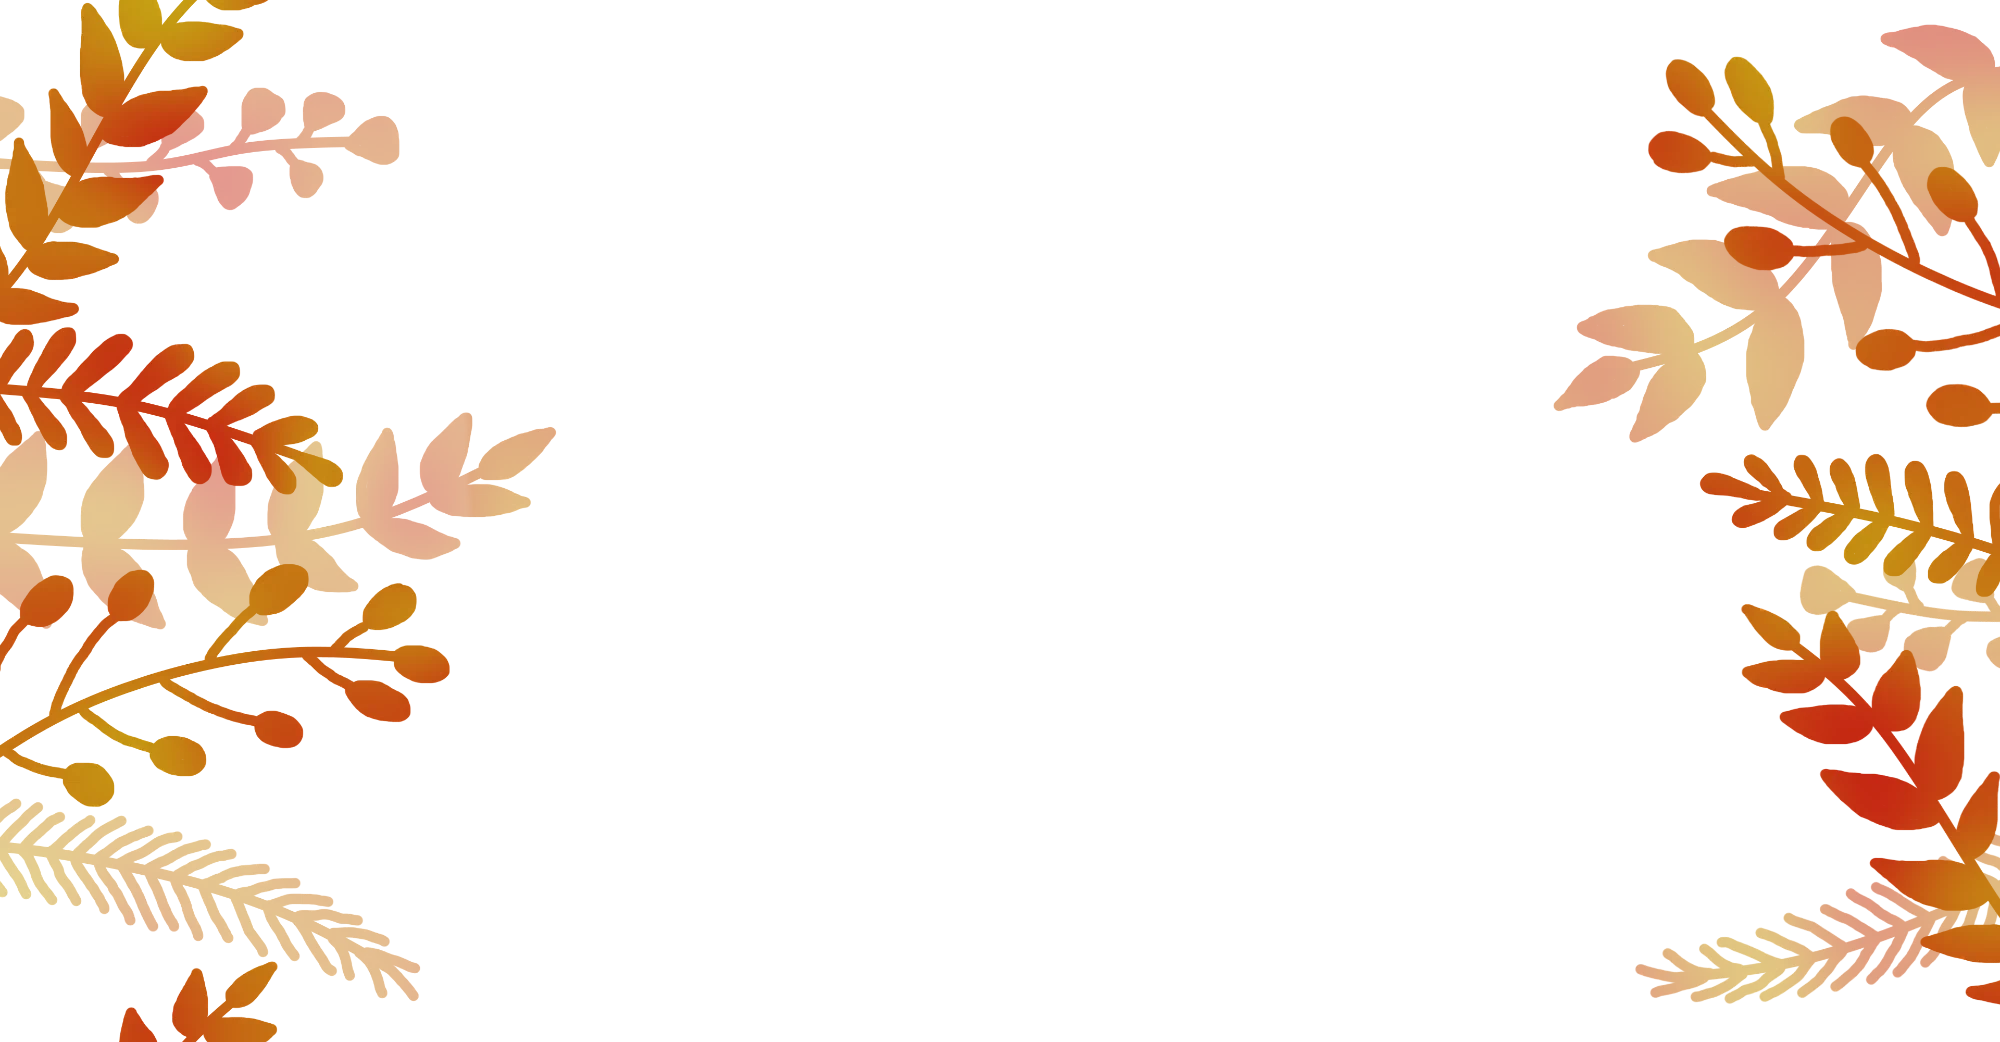
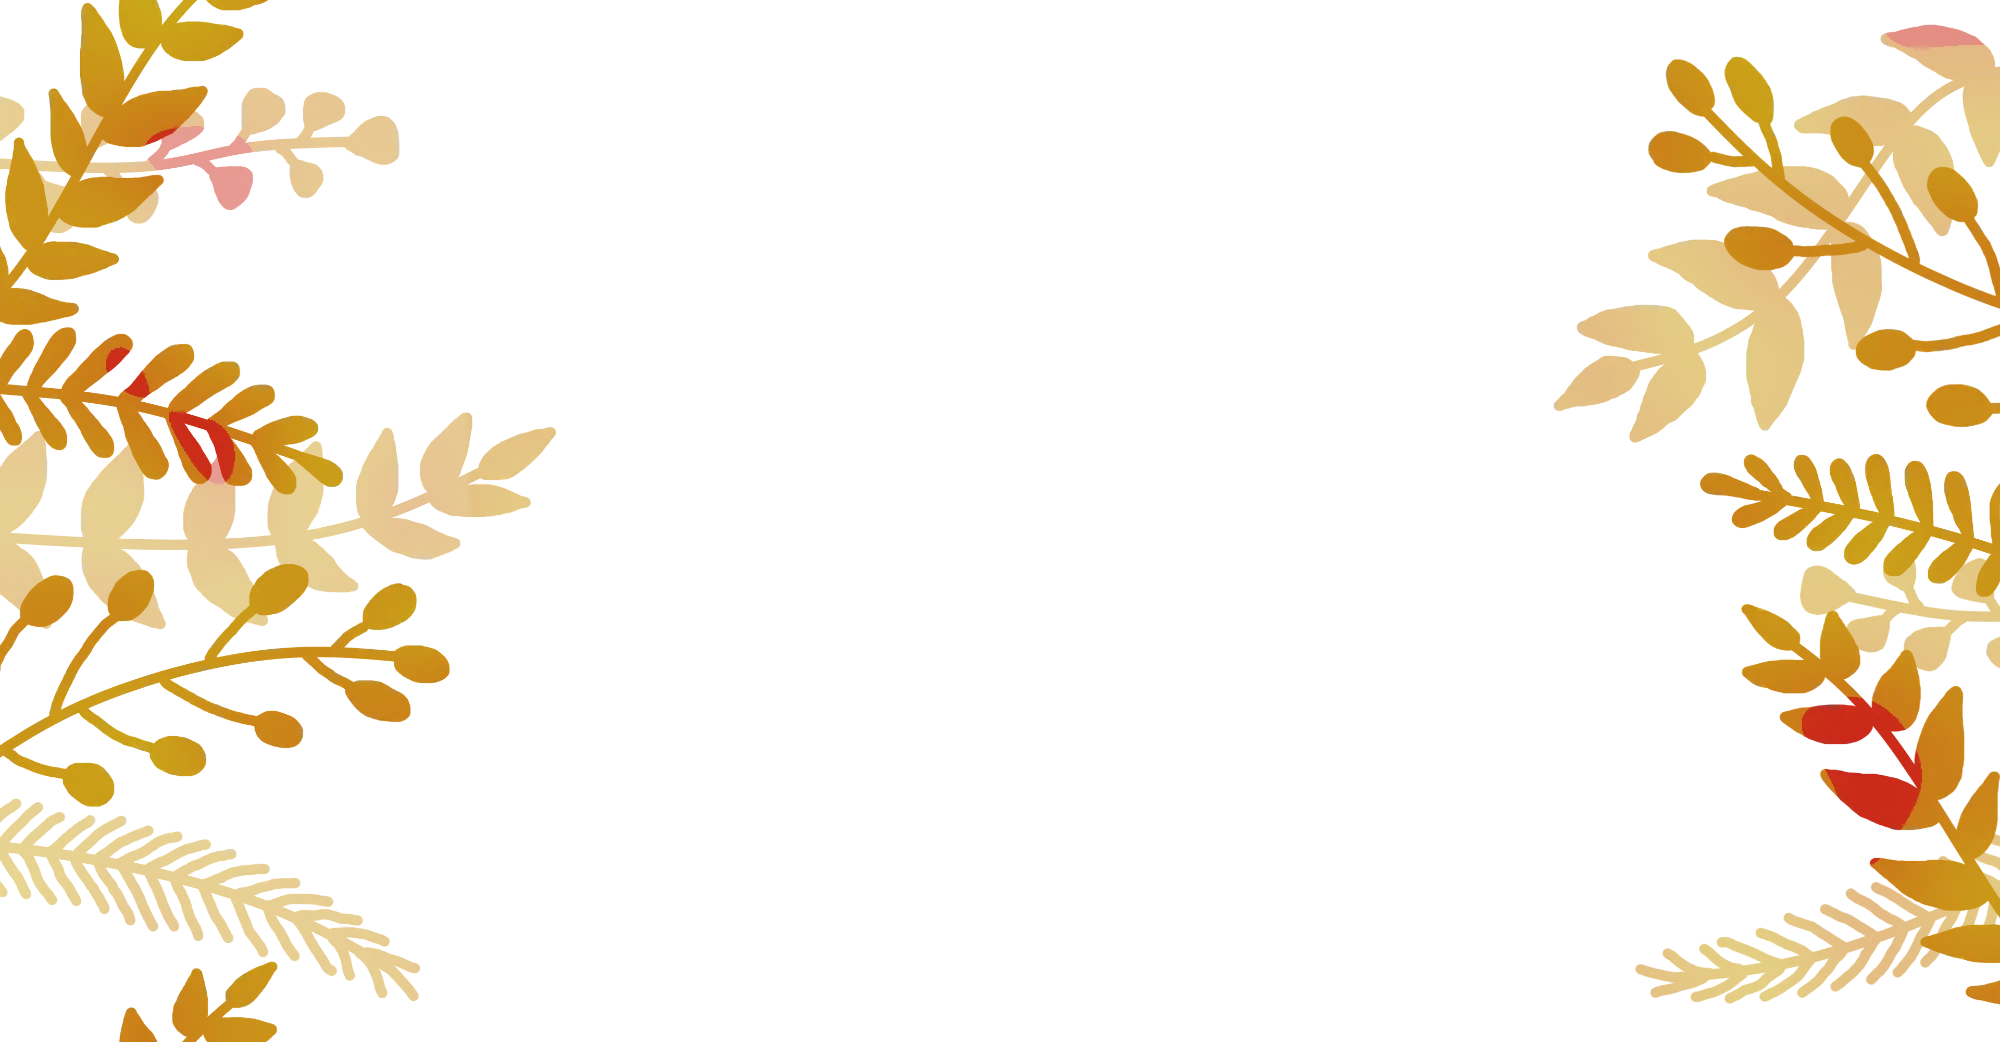
Autumn woodland side art: mostly gold with a few red patches
Easier to see at the top of the page than the mixed version.

Claude-Session: https://claude.ai/code/session_01AKYuNggPa5w9iRuLumobCr

diff --git a/profile.html b/profile.html
@@ -18,8 +18,8 @@
   <meta name="twitter:card" content="summary_large_image" />
   <link rel="preconnect" href="https://fonts.googleapis.com" />
   <link href="https://fonts.googleapis.com/css2?family=Fraunces:wght@500;600&family=Work+Sans:wght@400;500;600&display=swap" rel="stylesheet" />
-  <link rel="stylesheet" href="style.css?v=110" />
-  <script src="a11y.js?v=110"></script>
+  <link rel="stylesheet" href="style.css?v=111" />
+  <script src="a11y.js?v=111"></script>
 </head>
 <body>
   <header class="site-header">
@@ -66,13 +66,13 @@
     <section id="profile-posts" class="feed"><p class="feed-empty is-loading">Loading…</p></section>
   </main>
   <script src="https://cdn.jsdelivr.net/npm/@supabase/supabase-js@2"></script>
-  <script src="supabase-client.js?v=110"></script>
-  <script src="profile-fields.js?v=110"></script>
-  <script src="nav-menu.js?v=110"></script>
-  <script src="ui.js?v=110"></script>
-  <script src="edit-forms.js?v=110"></script>
-  <script src="biome.js?v=110"></script>
-  <script src="report.js?v=110"></script>
-  <script src="profile.js?v=110"></script>
+  <script src="supabase-client.js?v=111"></script>
+  <script src="profile-fields.js?v=111"></script>
+  <script src="nav-menu.js?v=111"></script>
+  <script src="ui.js?v=111"></script>
+  <script src="edit-forms.js?v=111"></script>
+  <script src="biome.js?v=111"></script>
+  <script src="report.js?v=111"></script>
+  <script src="profile.js?v=111"></script>
 </body>
 </html>

diff --git a/reviews.html b/reviews.html
@@ -18,8 +18,8 @@
   <meta name="twitter:card" content="summary_large_image" />
   <link rel="preconnect" href="https://fonts.googleapis.com" />
   <link href="https://fonts.googleapis.com/css2?family=Fraunces:wght@500;600&family=Work+Sans:wght@400;500;600&display=swap" rel="stylesheet" />
-  <link rel="stylesheet" href="style.css?v=110" />
-  <script src="a11y.js?v=110"></script>
+  <link rel="stylesheet" href="style.css?v=111" />
+  <script src="a11y.js?v=111"></script>
 </head>
 <body data-biome="forest">
   <header class="site-header">
@@ -128,12 +128,12 @@
     </section>
   </main>
   <script src="https://cdn.jsdelivr.net/npm/@supabase/supabase-js@2"></script>
-  <script src="supabase-client.js?v=110"></script>
-  <script src="profile-fields.js?v=110"></script>
-  <script src="nav-menu.js?v=110"></script>
-  <script src="ui.js?v=110"></script>
-  <script src="edit-forms.js?v=110"></script>
-  <script src="report.js?v=110"></script>
-  <script src="reviews.js?v=110"></script>
+  <script src="supabase-client.js?v=111"></script>
+  <script src="profile-fields.js?v=111"></script>
+  <script src="nav-menu.js?v=111"></script>
+  <script src="ui.js?v=111"></script>
+  <script src="edit-forms.js?v=111"></script>
+  <script src="report.js?v=111"></script>
+  <script src="reviews.js?v=111"></script>
 </body>
 </html>

diff --git a/feed.html b/feed.html
@@ -19,8 +19,8 @@
 
   <link rel="preconnect" href="https://fonts.googleapis.com" />
   <link href="https://fonts.googleapis.com/css2?family=Fraunces:wght@500;600&family=Work+Sans:wght@400;500;600&display=swap" rel="stylesheet" />
-  <link rel="stylesheet" href="style.css?v=110" />
-  <script src="a11y.js?v=110"></script>
+  <link rel="stylesheet" href="style.css?v=111" />
+  <script src="a11y.js?v=111"></script>
 </head>
 <body data-biome="forest">
 
@@ -88,13 +88,13 @@
   </main>
 
   <script src="https://cdn.jsdelivr.net/npm/@supabase/supabase-js@2"></script>
-  <script src="supabase-client.js?v=110"></script>
-  <script src="profile-fields.js?v=110"></script>
-  <script src="nav-menu.js?v=110"></script>
-  <script src="ui.js?v=110"></script>
-  <script src="edit-forms.js?v=110"></script>
-  <script src="report.js?v=110"></script>
-  <script src="polls.js?v=110"></script>
-  <script src="feed.js?v=110"></script>
+  <script src="supabase-client.js?v=111"></script>
+  <script src="profile-fields.js?v=111"></script>
+  <script src="nav-menu.js?v=111"></script>
+  <script src="ui.js?v=111"></script>
+  <script src="edit-forms.js?v=111"></script>
+  <script src="report.js?v=111"></script>
+  <script src="polls.js?v=111"></script>
+  <script src="feed.js?v=111"></script>
 </body>
 </html>

diff --git a/moderate-products.html b/moderate-products.html
@@ -19,8 +19,8 @@
 
   <link rel="preconnect" href="https://fonts.googleapis.com" />
   <link href="https://fonts.googleapis.com/css2?family=Fraunces:wght@500;600&family=Work+Sans:wght@400;500;600&display=swap" rel="stylesheet" />
-  <link rel="stylesheet" href="style.css?v=110" />
-  <script src="a11y.js?v=110"></script>
+  <link rel="stylesheet" href="style.css?v=111" />
+  <script src="a11y.js?v=111"></script>
 </head>
 <body>
 
@@ -63,11 +63,11 @@
   </main>
 
   <script src="https://cdn.jsdelivr.net/npm/@supabase/supabase-js@2"></script>
-  <script src="supabase-client.js?v=110"></script>
-  <script src="profile-fields.js?v=110"></script>
-  <script src="nav-menu.js?v=110"></script>
-  <script src="ui.js?v=110"></script>
-  <script src="product-match.js?v=110"></script>
-  <script src="moderate-products.js?v=110"></script>
+  <script src="supabase-client.js?v=111"></script>
+  <script src="profile-fields.js?v=111"></script>
+  <script src="nav-menu.js?v=111"></script>
+  <script src="ui.js?v=111"></script>
+  <script src="product-match.js?v=111"></script>
+  <script src="moderate-products.js?v=111"></script>
 </body>
 </html>

diff --git a/edit-profile.html b/edit-profile.html
@@ -18,8 +18,8 @@
   <meta name="twitter:card" content="summary_large_image" />
   <link rel="preconnect" href="https://fonts.googleapis.com" />
   <link href="https://fonts.googleapis.com/css2?family=Fraunces:wght@500;600&family=Work+Sans:wght@400;500;600&display=swap" rel="stylesheet" />
-  <link rel="stylesheet" href="style.css?v=110" />
-  <script src="a11y.js?v=110"></script>
+  <link rel="stylesheet" href="style.css?v=111" />
+  <script src="a11y.js?v=111"></script>
 </head>
 <body>
   <header class="site-header">
@@ -99,10 +99,10 @@
   </main>
 
   <script src="https://cdn.jsdelivr.net/npm/@supabase/supabase-js@2"></script>
-  <script src="supabase-client.js?v=110"></script>
-  <script src="profile-fields.js?v=110"></script>
-  <script src="nav-menu.js?v=110"></script>
-  <script src="ui.js?v=110"></script>
-  <script src="edit-profile.js?v=110"></script>
+  <script src="supabase-client.js?v=111"></script>
+  <script src="profile-fields.js?v=111"></script>
+  <script src="nav-menu.js?v=111"></script>
+  <script src="ui.js?v=111"></script>
+  <script src="edit-profile.js?v=111"></script>
 </body>
 </html>

diff --git a/reset-password.html b/reset-password.html
@@ -19,8 +19,8 @@
 
   <link rel="preconnect" href="https://fonts.googleapis.com" />
   <link href="https://fonts.googleapis.com/css2?family=Fraunces:wght@500;600&family=Work+Sans:wght@400;500;600&display=swap" rel="stylesheet" />
-  <link rel="stylesheet" href="style.css?v=110" />
-  <script src="a11y.js?v=110"></script>
+  <link rel="stylesheet" href="style.css?v=111" />
+  <script src="a11y.js?v=111"></script>
   <!-- Note what the email link said before Supabase tidies the address bar -->
   <script>window.resetLinkParams = window.location.hash.slice(1) + "&" + window.location.search.slice(1);</script>
 </head>
@@ -69,9 +69,9 @@
   </main>
 
   <script src="https://cdn.jsdelivr.net/npm/@supabase/supabase-js@2"></script>
-  <script src="supabase-client.js?v=110"></script>
-  <script src="nav-menu.js?v=110"></script>
-  <script src="ui.js?v=110"></script>
-  <script src="reset-password.js?v=110"></script>
+  <script src="supabase-client.js?v=111"></script>
+  <script src="nav-menu.js?v=111"></script>
+  <script src="ui.js?v=111"></script>
+  <script src="reset-password.js?v=111"></script>
 </body>
 </html>

diff --git a/events.html b/events.html
@@ -18,8 +18,8 @@
   <meta name="twitter:card" content="summary_large_image" />
   <link rel="preconnect" href="https://fonts.googleapis.com" />
   <link href="https://fonts.googleapis.com/css2?family=Fraunces:wght@500;600&family=Work+Sans:wght@400;500;600&display=swap" rel="stylesheet" />
-  <link rel="stylesheet" href="style.css?v=110" />
-  <script src="a11y.js?v=110"></script>
+  <link rel="stylesheet" href="style.css?v=111" />
+  <script src="a11y.js?v=111"></script>
 </head>
 <body>
   <header class="site-header">
@@ -39,10 +39,10 @@
     </div>
   </main>
   <script src="https://cdn.jsdelivr.net/npm/@supabase/supabase-js@2"></script>
-  <script src="supabase-client.js?v=110"></script>
-  <script src="nav-menu.js?v=110"></script>
-  <script src="ui.js?v=110"></script>
-  <script src="biome.js?v=110"></script>
-  <script src="events.js?v=110"></script>
+  <script src="supabase-client.js?v=111"></script>
+  <script src="nav-menu.js?v=111"></script>
+  <script src="ui.js?v=111"></script>
+  <script src="biome.js?v=111"></script>
+  <script src="events.js?v=111"></script>
 </body>
 </html>

diff --git a/signup.html b/signup.html
@@ -19,8 +19,8 @@
 
   <link rel="preconnect" href="https://fonts.googleapis.com" />
   <link href="https://fonts.googleapis.com/css2?family=Fraunces:wght@500;600&family=Work+Sans:wght@400;500;600&display=swap" rel="stylesheet" />
-  <link rel="stylesheet" href="style.css?v=110" />
-  <script src="a11y.js?v=110"></script>
+  <link rel="stylesheet" href="style.css?v=111" />
+  <script src="a11y.js?v=111"></script>
 </head>
 <body>
 
@@ -76,11 +76,11 @@
   <!-- Supabase's own code library, loaded from their servers -->
   <script src="https://cdn.jsdelivr.net/npm/@supabase/supabase-js@2"></script>
   <!-- Our shared connection setup -->
-  <script src="supabase-client.js?v=110"></script>
+  <script src="supabase-client.js?v=111"></script>
   <!-- Hamburger menu behavior -->
-  <script src="nav-menu.js?v=110"></script>
-  <script src="ui.js?v=110"></script>
+  <script src="nav-menu.js?v=111"></script>
+  <script src="ui.js?v=111"></script>
   <!-- The logic specific to this page -->
-  <script src="signup.js?v=110"></script>
+  <script src="signup.js?v=111"></script>
 </body>
 </html>

diff --git a/suggest-product.html b/suggest-product.html
@@ -19,8 +19,8 @@
 
   <link rel="preconnect" href="https://fonts.googleapis.com" />
   <link href="https://fonts.googleapis.com/css2?family=Fraunces:wght@500;600&family=Work+Sans:wght@400;500;600&display=swap" rel="stylesheet" />
-  <link rel="stylesheet" href="style.css?v=110" />
-  <script src="a11y.js?v=110"></script>
+  <link rel="stylesheet" href="style.css?v=111" />
+  <script src="a11y.js?v=111"></script>
 </head>
 <body>
 
@@ -88,10 +88,10 @@
   </main>
 
   <script src="https://cdn.jsdelivr.net/npm/@supabase/supabase-js@2"></script>
-  <script src="supabase-client.js?v=110"></script>
-  <script src="nav-menu.js?v=110"></script>
-  <script src="ui.js?v=110"></script>
-  <script src="product-match.js?v=110"></script>
-  <script src="suggest-product.js?v=110"></script>
+  <script src="supabase-client.js?v=111"></script>
+  <script src="nav-menu.js?v=111"></script>
+  <script src="ui.js?v=111"></script>
+  <script src="product-match.js?v=111"></script>
+  <script src="suggest-product.js?v=111"></script>
 </body>
 </html>

diff --git a/notifications.html b/notifications.html
@@ -18,8 +18,8 @@
   <meta name="twitter:card" content="summary_large_image" />
   <link rel="preconnect" href="https://fonts.googleapis.com" />
   <link href="https://fonts.googleapis.com/css2?family=Fraunces:wght@500;600&family=Work+Sans:wght@400;500;600&display=swap" rel="stylesheet" />
-  <link rel="stylesheet" href="style.css?v=110" />
-  <script src="a11y.js?v=110"></script>
+  <link rel="stylesheet" href="style.css?v=111" />
+  <script src="a11y.js?v=111"></script>
 </head>
 <body>
   <header class="site-header">
@@ -39,9 +39,9 @@
     </section>
   </main>
   <script src="https://cdn.jsdelivr.net/npm/@supabase/supabase-js@2"></script>
-  <script src="supabase-client.js?v=110"></script>
-  <script src="nav-menu.js?v=110"></script>
-  <script src="ui.js?v=110"></script>
-  <script src="notifications.js?v=110"></script>
+  <script src="supabase-client.js?v=111"></script>
+  <script src="nav-menu.js?v=111"></script>
+  <script src="ui.js?v=111"></script>
+  <script src="notifications.js?v=111"></script>
 </body>
 </html>

diff --git a/invite.html b/invite.html
@@ -18,8 +18,8 @@
   <meta name="twitter:card" content="summary_large_image" />
   <link rel="preconnect" href="https://fonts.googleapis.com" />
   <link href="https://fonts.googleapis.com/css2?family=Fraunces:wght@500;600&family=Work+Sans:wght@400;500;600&display=swap" rel="stylesheet" />
-  <link rel="stylesheet" href="style.css?v=110" />
-  <script src="a11y.js?v=110"></script>
+  <link rel="stylesheet" href="style.css?v=111" />
+  <script src="a11y.js?v=111"></script>
 </head>
 <body>
   <header class="site-header">
@@ -39,9 +39,9 @@
     </div>
   </main>
   <script src="https://cdn.jsdelivr.net/npm/@supabase/supabase-js@2"></script>
-  <script src="supabase-client.js?v=110"></script>
-  <script src="nav-menu.js?v=110"></script>
-  <script src="ui.js?v=110"></script>
-  <script src="invite.js?v=110"></script>
+  <script src="supabase-client.js?v=111"></script>
+  <script src="nav-menu.js?v=111"></script>
+  <script src="ui.js?v=111"></script>
+  <script src="invite.js?v=111"></script>
 </body>
 </html>

diff --git a/byome-shop.html b/byome-shop.html
@@ -19,8 +19,8 @@
 
   <link rel="preconnect" href="https://fonts.googleapis.com" />
   <link href="https://fonts.googleapis.com/css2?family=Fraunces:wght@500;600&family=Work+Sans:wght@400;500;600&display=swap" rel="stylesheet" />
-  <link rel="stylesheet" href="style.css?v=110" />
-  <script src="a11y.js?v=110"></script>
+  <link rel="stylesheet" href="style.css?v=111" />
+  <script src="a11y.js?v=111"></script>
 </head>
 <body>
 
@@ -50,10 +50,10 @@
   </main>
 
   <script src="https://cdn.jsdelivr.net/npm/@supabase/supabase-js@2"></script>
-  <script src="supabase-client.js?v=110"></script>
-  <script src="nav-menu.js?v=110"></script>
-  <script src="ui.js?v=110"></script>
-  <script src="biome.js?v=110"></script>
-  <script src="biome-shop.js?v=110"></script>
+  <script src="supabase-client.js?v=111"></script>
+  <script src="nav-menu.js?v=111"></script>
+  <script src="ui.js?v=111"></script>
+  <script src="biome.js?v=111"></script>
+  <script src="biome-shop.js?v=111"></script>
 </body>
 </html>
